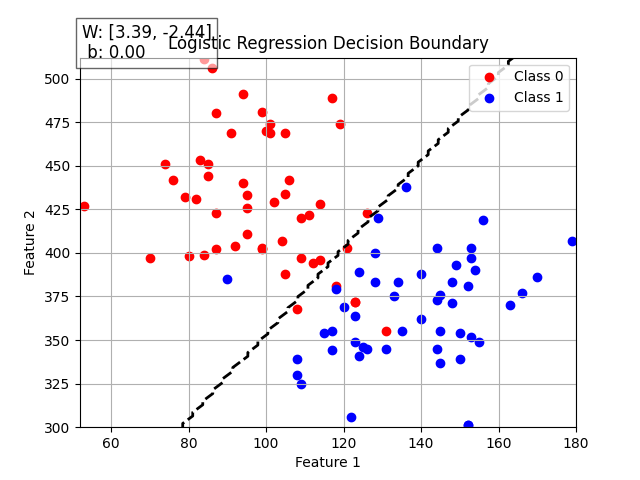
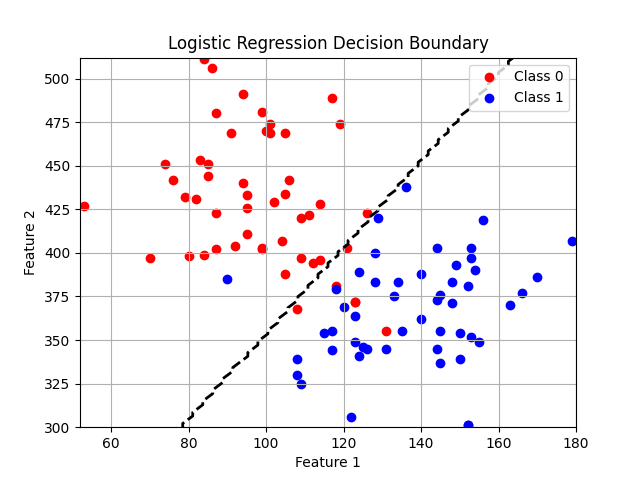
.

Changed region(s): [[0.0938, 0.0312, 0.3438, 0.1562]]

diff --git a/Assignment1/Q4/main.py b/Assignment1/Q4/main.py
@@ -48,28 +48,14 @@ def q4_2(X,y):
     Z = model.predict(np.c_[xx.ravel(), yy.ravel()])
     Z = Z.reshape(xx.shape)
     plt.contour(xx, yy, Z, levels=[0.5], colors='black', linestyles='dashed', linewidths=2)
-
-    pos = np.dstack((xx, yy))
-    epsilon = 1e-6
-    rv_0 = multivariate_normal(mean=model.mu_0, cov=model.sigma)
-    rv_1 = multivariate_normal(mean=model.mu_1, cov=model.sigma)
-
-    w = w = np.linalg.inv(model.sigma) @ (model.mu_1 - model.mu_0)
-    b = -0.5 * (model.mu_1.T @ np.linalg.inv(model.sigma) @ model.mu_1 - model.mu_0.T @ np.linalg.inv(model.sigma) @ model.mu_0) - np.log(model.phi / (1 - model.phi))
-    grid = np.c_[xx.ravel(), yy.ravel()]
-    pdf_0 = rv_0.pdf(grid).reshape(xx.shape)
-    pdf_1 = rv_1.pdf(grid).reshape(xx.shape)
-
-    plt.contour(xx, yy, pdf_0, levels=np.logspace(-5, 0, 10), cmap="Reds", alpha=0.5)
-    plt.contour(xx, yy, pdf_1, levels=np.logspace(-5, 0, 10), cmap="Blues", alpha=0.5)
-
+    
     plt.xlabel('Feature 1')
     plt.ylabel('Feature 2')
     plt.legend()
     plt.grid(True)
     plt.title('Logistic Regression Decision Boundary')
-    equation_text = f"W: [{w[0]:.2f}, {w[1]:.2f}]\n b: {b:.2f}"
-    plt.text(x_min + 0.5, y_max - 0.5, equation_text, fontsize=12, color='black', bbox=dict(facecolor='white', alpha=0.6))
+    
+    
     plt.savefig('q4_2.png')
     print(f"Image saved as q4_2.png")
     plt.close()
@@ -103,19 +89,6 @@ def q4_5(X,y):
     Z = Z.reshape(xx.shape)
     plt.contour(xx, yy, Z, levels=[0.5], colors='black', linestyles='dashed', linewidths=2)
 
-    pos = np.dstack((xx, yy))
-    # epsilon = 1e-6
-    rv_0 = multivariate_normal(mean=model.mu_0, cov=model.sigma_0)
-    rv_1 = multivariate_normal(mean=model.mu_1, cov=model.sigma_1)
-
-
-    grid = np.c_[xx.ravel(), yy.ravel()]
-    pdf_0 = rv_0.pdf(grid).reshape(xx.shape)
-    pdf_1 = rv_1.pdf(grid).reshape(xx.shape)
-
-    plt.contour(xx, yy, pdf_0, levels=np.logspace(-5, 0, 10), cmap="Reds", alpha=0.5)
-    plt.contour(xx, yy, pdf_1, levels=np.logspace(-5, 0, 10), cmap="Blues", alpha=0.5)
-
     plt.xlabel('Feature 1')
     plt.ylabel('Feature 2')
     plt.legend()
@@ -132,7 +105,7 @@ y = np.genfromtxt('../data/Q4/q4y.dat', dtype=str)
 
 mp = {'Alaska': 0, 'Canada': 1}
 y = np.array([mp[i] for i in y])
-q4_1(X,y)
+# q4_1(X,y)
 q4_2(X,y)
-q4_4(X,y)
+# q4_4(X,y)
 q4_5(X,y)
